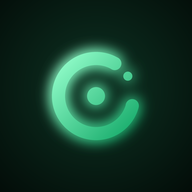
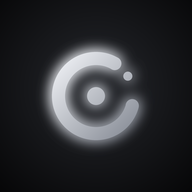
Add files via upload

Changed region(s): [[0.2188, 0.2188, 0.7812, 0.7812]]

diff --git a/index.html b/index.html
@@ -5,12 +5,12 @@
 <meta name="viewport" content="width=device-width, initial-scale=1, viewport-fit=cover, interactive-widget=resizes-content">
 <title>Alfred</title>
 <link rel="manifest" href="manifest.json">
-<meta name="theme-color" content="#06110c">
+<meta name="theme-color" content="#09090a">
 <link rel="icon" href="icon-192.png">
 <style>
-:root{--bg:#06110c;--panel:#0b1912;--card:#112419;--line:#1b3326;--tx:#e4f1e9;--mut:#7c9a89;--ac:#3ddc97;--acx:#03130b;--user:#13301f;--glow:#0e2e1e}
-[data-theme=light]{--bg:#f3faf6;--panel:#e8f3ec;--card:#dcece3;--line:#cfe3d6;--tx:#0f2218;--mut:#587364;--ac:#168a57;--acx:#fff;--user:#d9efe2;--glow:#e3f5ea}
-@media(prefers-color-scheme:light){[data-theme=auto]{--bg:#f3faf6;--panel:#e8f3ec;--card:#dcece3;--line:#cfe3d6;--tx:#0f2218;--mut:#587364;--ac:#168a57;--acx:#fff;--user:#d9efe2;--glow:#e3f5ea}}
+:root{--bg:#09090a;--panel:#111113;--card:#1b1b1f;--line:#2a2a2f;--tx:#e8e9ec;--mut:#8a8d94;--ac:#b9bdc5;--acx:#0a0a0b;--user:#1d1d22;--glow:#18191c}
+[data-theme=light]{--bg:#f3f3f4;--panel:#e9e9eb;--card:#dedee1;--line:#d0d0d4;--tx:#111113;--mut:#62646b;--ac:#3a3d44;--acx:#fff;--user:#e3e3e6;--glow:#e8e8eb}
+@media(prefers-color-scheme:light){[data-theme=auto]{--bg:#f3f3f4;--panel:#e9e9eb;--card:#dedee1;--line:#d0d0d4;--tx:#111113;--mut:#62646b;--ac:#3a3d44;--acx:#fff;--user:#e3e3e6;--glow:#e8e8eb}}
 *{box-sizing:border-box;-webkit-tap-highlight-color:transparent}
 html,body{height:100%;margin:0}
 body{background:var(--bg) radial-gradient(110% 55% at 50% -8%,var(--glow),transparent) no-repeat;color:var(--tx);font:16px/1.55 system-ui,-apple-system,Segoe UI,Roboto,sans-serif;overflow:hidden}
@@ -42,7 +42,7 @@ header .t{flex:1;text-align:center;font-weight:600;white-space:nowrap;overflow:h
 @keyframes bl{50%{opacity:0}}
 .acts{display:flex;gap:2px;margin-top:2px}.acts button{font-size:12px;color:var(--mut);padding:4px 10px;border-radius:10px}.acts button:active{background:var(--card)}
 .empty{height:100%;display:flex;flex-direction:column;align-items:center;justify-content:center;text-align:center;gap:6px;animation:in .4s}
-.empty .av{width:96px;height:96px;margin:0 auto;box-shadow:0 0 40px #3ddc9755}.empty h1{font-size:24px;margin:10px 0 0}.empty p{color:var(--mut);margin:0 0 14px}
+.empty .av{width:96px;height:96px;margin:0 auto;box-shadow:0 0 40px #b9bdc533}.empty h1{font-size:24px;margin:10px 0 0}.empty p{color:var(--mut);margin:0 0 14px}
 .chips{display:flex;flex-wrap:wrap;gap:8px;justify-content:center;max-width:420px}
 .chip{border:1px solid var(--line);border-radius:16px;padding:8px 14px;font-size:14px;background:var(--panel)}.chip:active{background:var(--card)}
 footer{padding:8px 12px calc(8px + env(safe-area-inset-bottom))}
@@ -112,7 +112,7 @@ small{display:block;text-align:center;color:var(--mut);font-size:11px;margin-top
 
 <script>if("serviceWorker"in navigator)navigator.serviceWorker.register("sw.js");</script>
 <script type="module">
[2 lines of base64/hex data omitted]
 const $=s=>document.querySelector(s);
 const MODELS=[["Qwen2.5-0.5B-Instruct-q4f16_1-MLC","Fast · 0.5B (~400 MB)"],["Llama-3.2-1B-Instruct-q4f16_1-MLC","Balanced · 1B (~700 MB)"],["Qwen2.5-1.5B-Instruct-q4f16_1-MLC","Smarter · 1.5B (~1 GB)"],["Llama-3.2-3B-Instruct-q4f16_1-MLC","Smartest · 3B (~2 GB)"]];
 const DEF={name:"Alfred",model:MODELS[0][0],sys:"You are {name}, a helpful, friendly and concise AI assistant running privately on the user's phone. Use markdown (lists, code blocks) when it helps.",temp:0.7,theme:"dark"};
